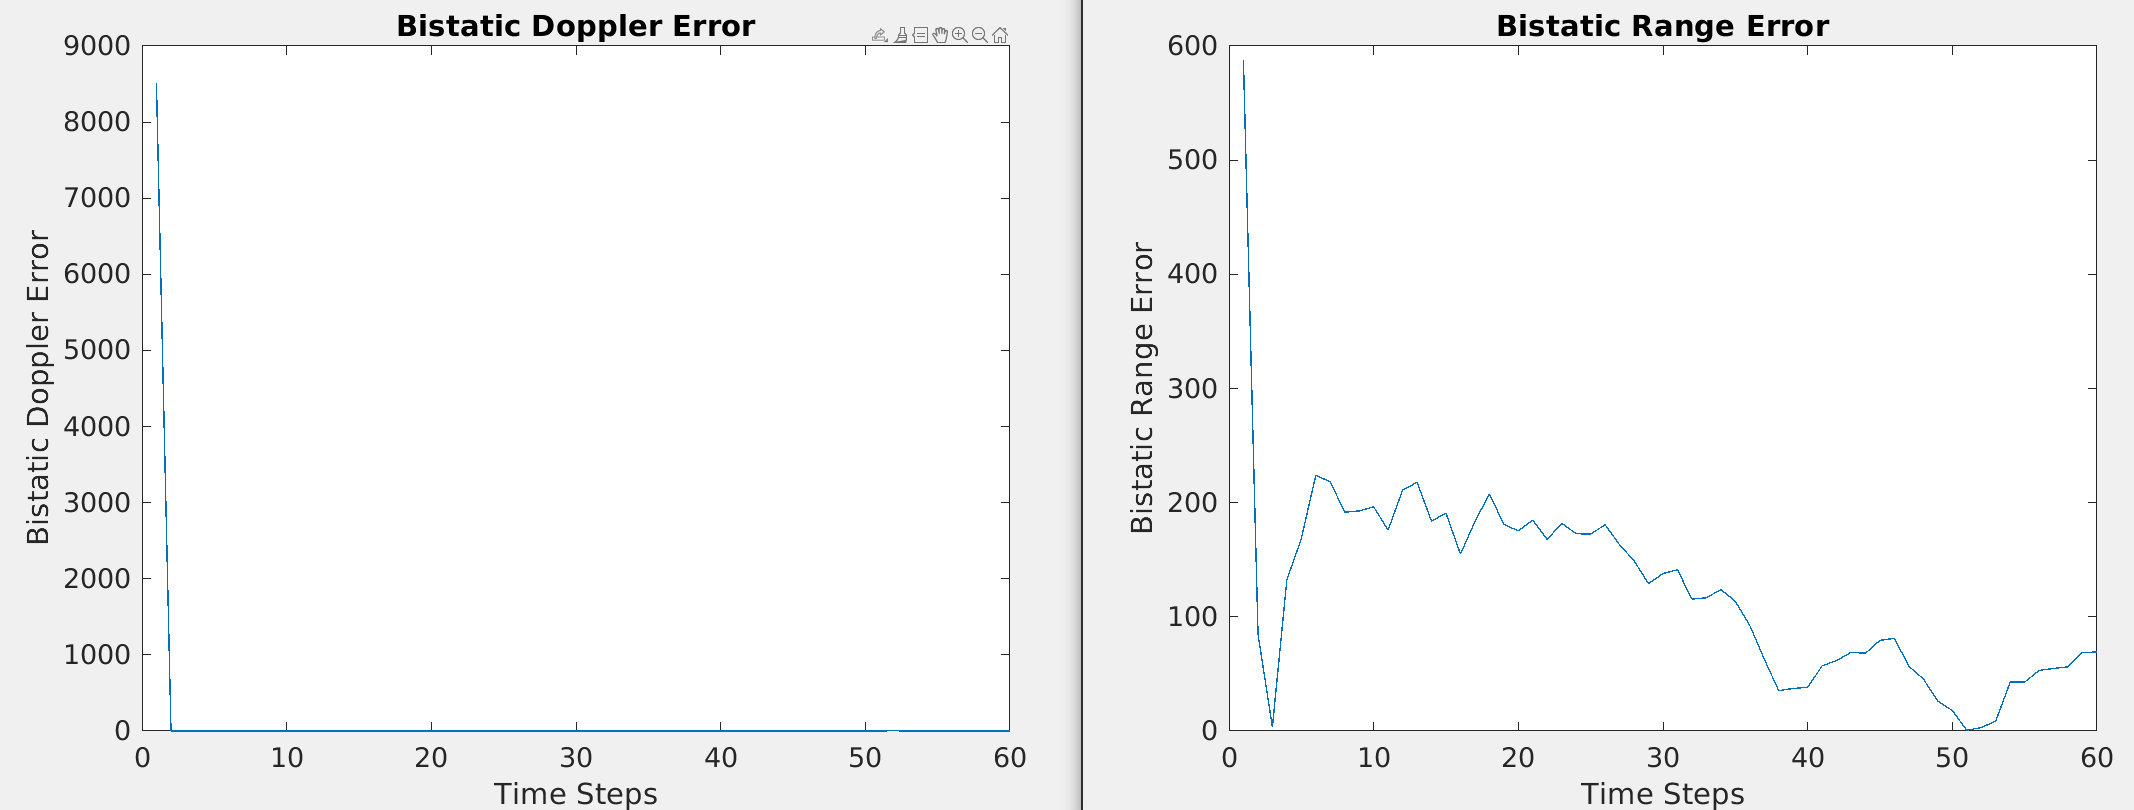
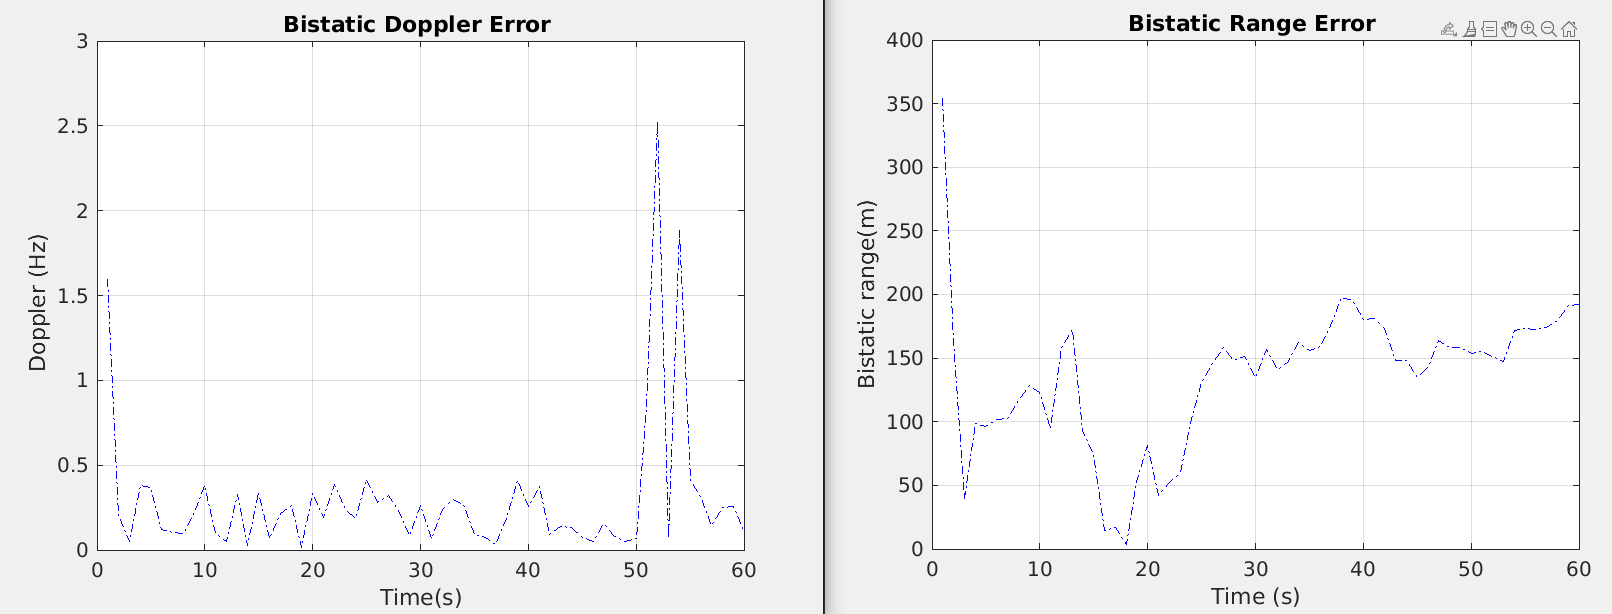
Fixed Plots

diff --git a/runTrackingFilter.m b/runTrackingFilter.m
@@ -102,8 +102,8 @@ doppler_error=[];
 range_error=[];
 
 
-rangeTrueData = h5read('output_data.h5', '/bistatic_ranges');
-dopplerTrueData = h5read('output_data.h5', '/doppler_shifts');
+rangeTrueData = h5read('true_data.h5', '/bistatic_ranges');
+dopplerTrueData = h5read('true_data.h5', '/doppler_shifts');
 
 for i = 1:simulation_time
     s1 = I_Qmov(initial:current); %surv
@@ -142,42 +142,22 @@ for i = 1:simulation_time
     %CALCULATE ERROR 
     [doppler_error,range_error]=multiTargetTracker.calculateError(i,doppler_error,range_error);
     
-    figure(6);
-    plot(doppler_error);
-    title('Bistatic Doppler Error');
-    xlabel('Time Steps');
-    ylabel('Bistatic Doppler Error');
-
-
-    figure(7);
-    plot(range_error);
-    title('Bistatic Range Error');
-    xlabel('Time Steps');
-    ylabel('Bistatic Range Error');
 
      % Create comparison plots for Doppler Error
     figure(6);
-    plot(doppler_error, 'b--^');
-    hold on;
-    plot(dopplerTrueData(1:i), 'g-o');
+    plot(abs(doppler_error-dopplerTrueData(1:i)), 'b-.');
     
-    title('Bistatic Doppler Error Comparison');
+    title('Bistatic Doppler Error ');
     xlabel('Time(s)');
     ylabel('Doppler (Hz)  ');
-    legend('Tracking Filter','Real Trajectory');
     grid on;
     
     % Create comparison plots for Range Errors
     figure(7);
-    plot(range_error, 'b--^');
-    hold on;
-
-    plot(rangeTrueData(1:i), 'g-o');
-
-    title('Bistatic Range Error Comparison');
-    xlabel('Time Steps');
+    plot(abs(range_error-rangeTrueData(1:i)), 'b-.');
+    title('Bistatic Range Error ');
+    xlabel('Time (s)');
     ylabel('Bistatic range(m)');
-    legend('Tracking Filter','Real Trajectory');
     grid on;
 
     ard = ard_;

diff --git a/runEvaluateFilters.m b/runEvaluateFilters.m
@@ -99,8 +99,8 @@ doppler_error_1=[];
 range_error_2=[];
 doppler_error_2=[];
 
-rangeTrueData = h5read('output_data.h5', '/bistatic_ranges');
-dopplerTrueData = h5read('output_data.h5', '/doppler_shifts');
+rangeTrueData = h5read('true_data.h5', '/bistatic_ranges');
+dopplerTrueData = h5read('true_data.h5', '/doppler_shifts');
 
 
 for i = 1:simulation_time
@@ -145,7 +145,6 @@ for i = 1:simulation_time
     [doppler_error_1,range_error_1]=multiTargetTracker1.calculateError(i,doppler_error_1,range_error_1);
     [doppler_error_2,range_error_2]=multiTargetTracker2.calculateError(i,doppler_error_2,range_error_2);
 
-
     ard = ard_;
     rdm= rdm_;
 
@@ -182,7 +181,7 @@ for i = 1:simulation_time
     plot(doppler_error_2, 'r-*');
 
     hold on;
-    plot(dopplerTrueData(1:i), 'g-o');
+    plot(dopplerTrueData(1:i), 'k-o');
     
     title('Bistatic Doppler Error Comparison');
     xlabel('Time(s)');
@@ -196,7 +195,7 @@ for i = 1:simulation_time
     hold on;
     plot(range_error_2, 'r-*');
     hold on;
-    plot(rangeTrueData(1:i), 'g-o');
+    plot(rangeTrueData(1:i), 'k-o');
 
     title('Bistatic Range Error Comparison');
     xlabel('Time Steps');
